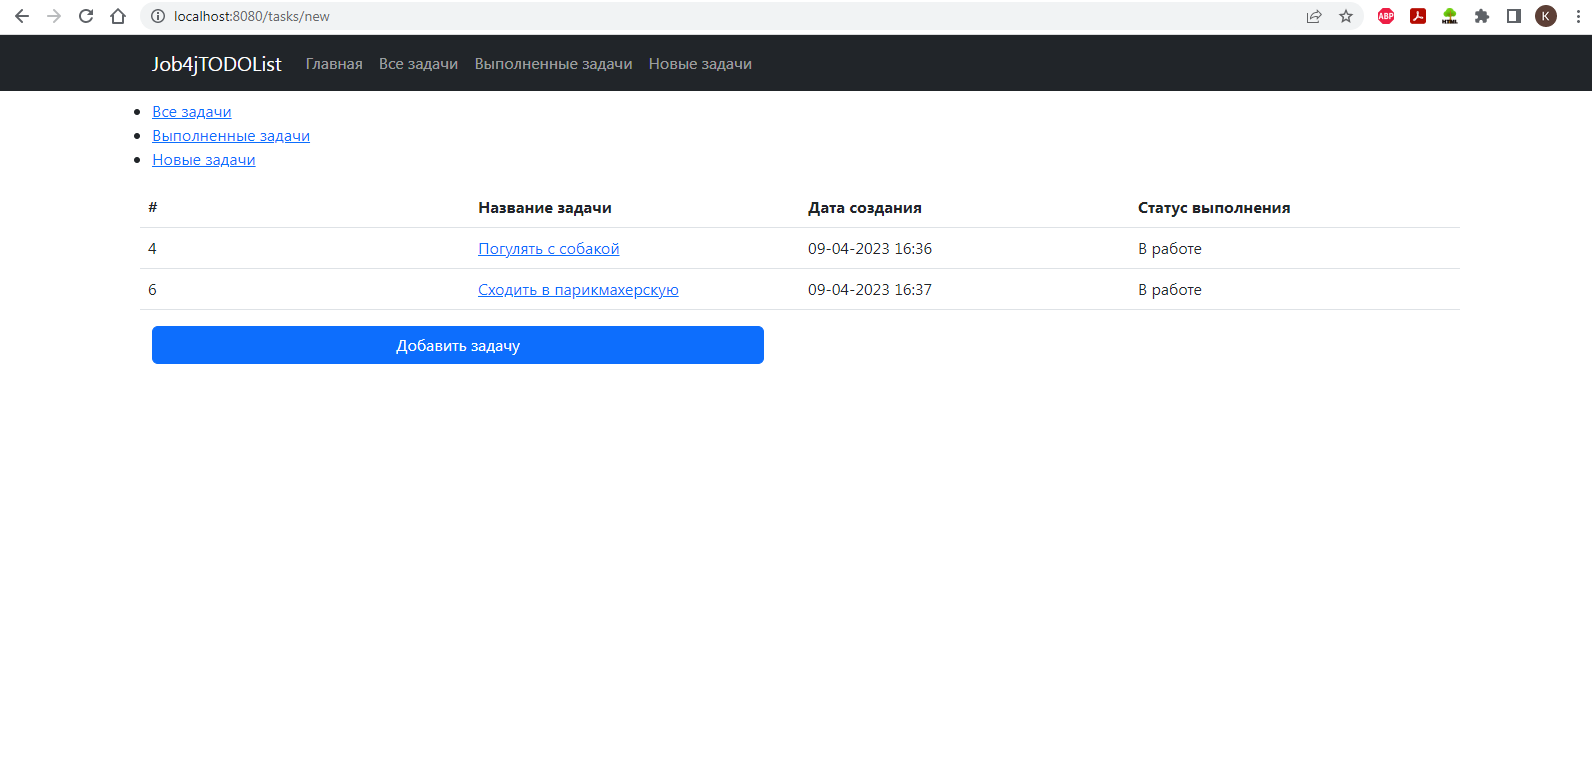
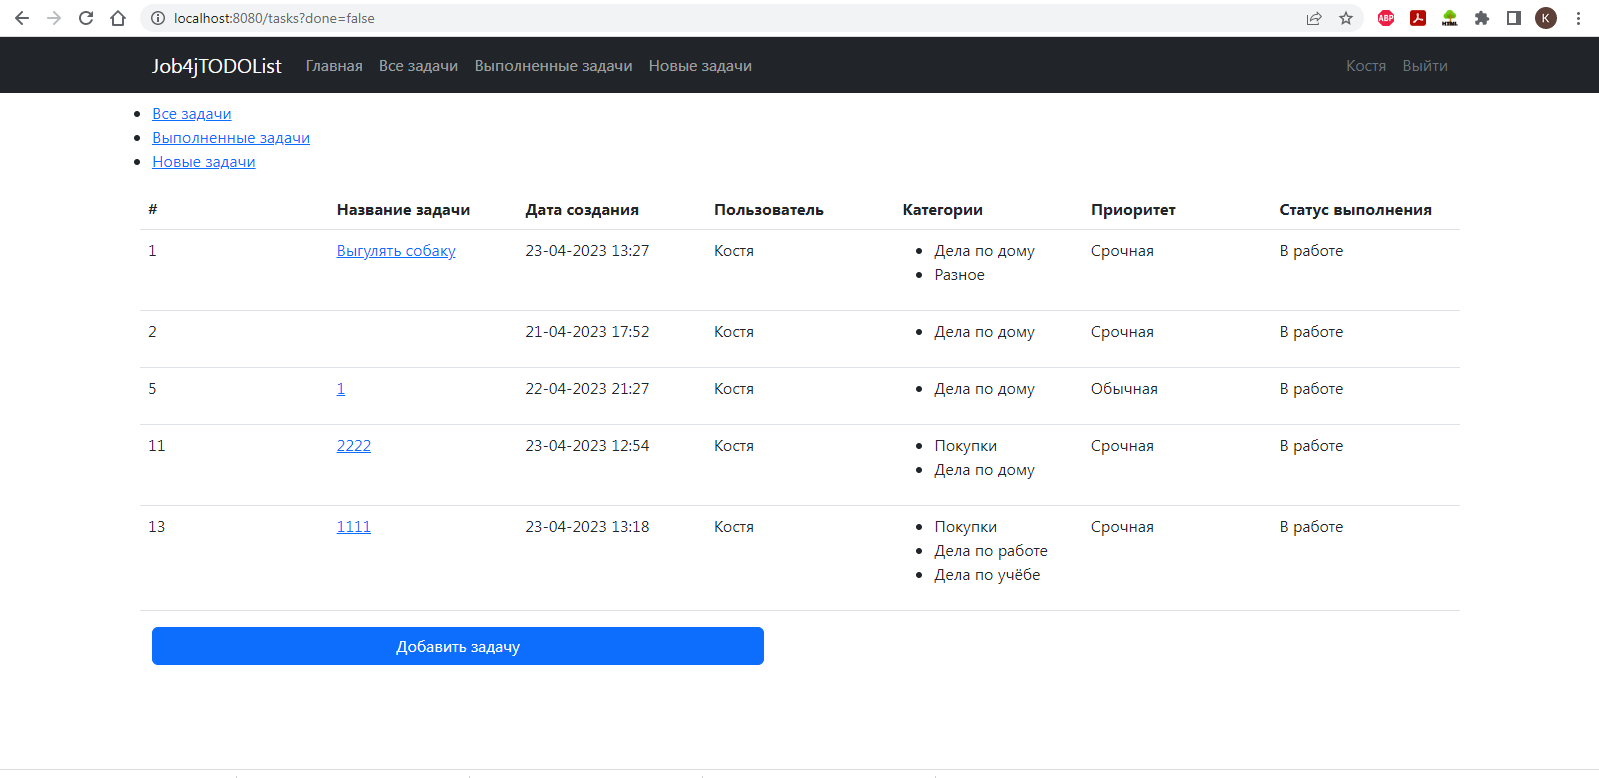
4. Категории в TODO List [#331991]fix

diff --git a/src/main/resources/templates/tasks/list.html b/src/main/resources/templates/tasks/list.html
@@ -79,7 +79,12 @@
                     </td>
                     <td th:text="${#temporals.format(task.created, 'dd-MM-yyyy HH:mm')}"/>
                     <td th:text="${task.user.name}"/>
-                    <td th:each="category: ${task.categories}" th:text="${category.name}"/>
+                    <td>
+                        <ul id="categories">
+                            <li th:each="category : ${task.categories}"
+                                th:text="${category.name}"></li>
+                        </ul>
+                    </td>
                     <td th:text="${task.priority.name}"/>
                     <td th:text="${task.done} ? 'Выполнено' : 'В работе'"/>
                 </tr>

diff --git a/src/main/java/ru/job4j/todo/repository/HbmTaskRepository.java b/src/main/java/ru/job4j/todo/repository/HbmTaskRepository.java
@@ -62,21 +62,21 @@ public class HbmTaskRepository implements TaskRepository {
 
     @Override
     public List<Task> findAll() {
-        return crudRepository.query("FROM Task t JOIN FETCH t.categories JOIN FETCH "
-                + "t.priority", Task.class);
+        return crudRepository.query("SELECT DISTINCT t FROM Task t JOIN FETCH t.categories "
+                + "JOIN FETCH t.priority ORDER BY t.id", Task.class);
     }
 
     @Override
     public List<Task> findAllByDone(boolean isDone) {
-        return crudRepository.query("FROM Task t JOIN FETCH t.categories JOIN FETCH "
-                        + "t.priority WHERE t.done = :done",
+        return crudRepository.query("SELECT DISTINCT t FROM Task t JOIN FETCH t.categories "
+                        + "JOIN FETCH t.priority WHERE t.done = :done ORDER BY t.id",
                 Task.class, Map.of("done", isDone));
     }
 
     @Override
     public Optional<Task> findById(int taskId) {
         return crudRepository.optional("FROM Task t JOIN FETCH t.categories JOIN FETCH "
-                        + "t.priority WHERE t.id = :id",
+                        + "t.priority WHERE t.id = :id ORDER BY t.id",
                 Task.class, Map.of("id", taskId));
     }
 

diff --git a/src/main/java/ru/job4j/todo/controller/TaskController.java b/src/main/java/ru/job4j/todo/controller/TaskController.java
@@ -44,9 +44,7 @@ public class TaskController {
     public String create(@ModelAttribute Task task, @SessionAttribute User user, Model model,
                          @RequestParam("categoryId") List<Integer> categoryId) {
         task.setUser(user);
-        var categories = categoryService.findById(categoryId);
-        task.setCategories(categories);
-        taskService.create(task);
+        taskService.create(task, categoryId);
         return "redirect:/tasks";
     }
 
@@ -77,11 +75,9 @@ public class TaskController {
 
     @PostMapping("/update")
     public String update(@ModelAttribute Task task, @SessionAttribute User user, Model model,
-                         @RequestParam("categoryId") List<Integer> categoriesId) {
+                         @RequestParam("categoryId") List<Integer> categoryId) {
         task.setUser(user);
-        var categories = categoryService.findById(categoriesId);
-        task.setCategories(categories);
-        boolean isUpdated = taskService.update(task);
+        boolean isUpdated = taskService.update(task, categoryId);
         if (!isUpdated) {
             model.addAttribute("error", "Задача не найдена!");
             return "errors/404";

diff --git a/src/main/java/ru/job4j/todo/service/SimpleTaskService.java b/src/main/java/ru/job4j/todo/service/SimpleTaskService.java
@@ -12,14 +12,19 @@ import java.util.Optional;
 @AllArgsConstructor
 public class SimpleTaskService implements TaskService {
     private final TaskRepository taskRepository;
+    private final CategoryService categoryService;
 
     @Override
-    public Task create(Task task) {
+    public Task create(Task task, List<Integer> categoryId) {
+        var categories = categoryService.findById(categoryId);
+        task.setCategories(categories);
         return taskRepository.create(task);
     }
 
     @Override
-    public boolean update(Task task) {
+    public boolean update(Task task, List<Integer> categoryId) {
+        var categories = categoryService.findById(categoryId);
+        task.setCategories(categories);
         return taskRepository.update(task);
     }
 

diff --git a/src/main/java/ru/job4j/todo/repository/HbmCategoryRepository.java b/src/main/java/ru/job4j/todo/repository/HbmCategoryRepository.java
@@ -14,7 +14,7 @@ public class HbmCategoryRepository implements CategoryRepository {
 
     @Override
     public List<Category> findAll() {
-        return crudRepository.query("FROM Category", Category.class);
+        return crudRepository.query("FROM Category ORDER BY id", Category.class);
     }
 
     @Override

diff --git a/src/main/java/ru/job4j/todo/service/TaskService.java b/src/main/java/ru/job4j/todo/service/TaskService.java
@@ -6,9 +6,9 @@ import java.util.List;
 import java.util.Optional;
 
 public interface TaskService {
-    Task create(Task task);
+    Task create(Task task, List<Integer> categoryId);
 
-    boolean update(Task task);
+    boolean update(Task task, List<Integer> categoryId);
 
     boolean deleteById(int taskId);
 
